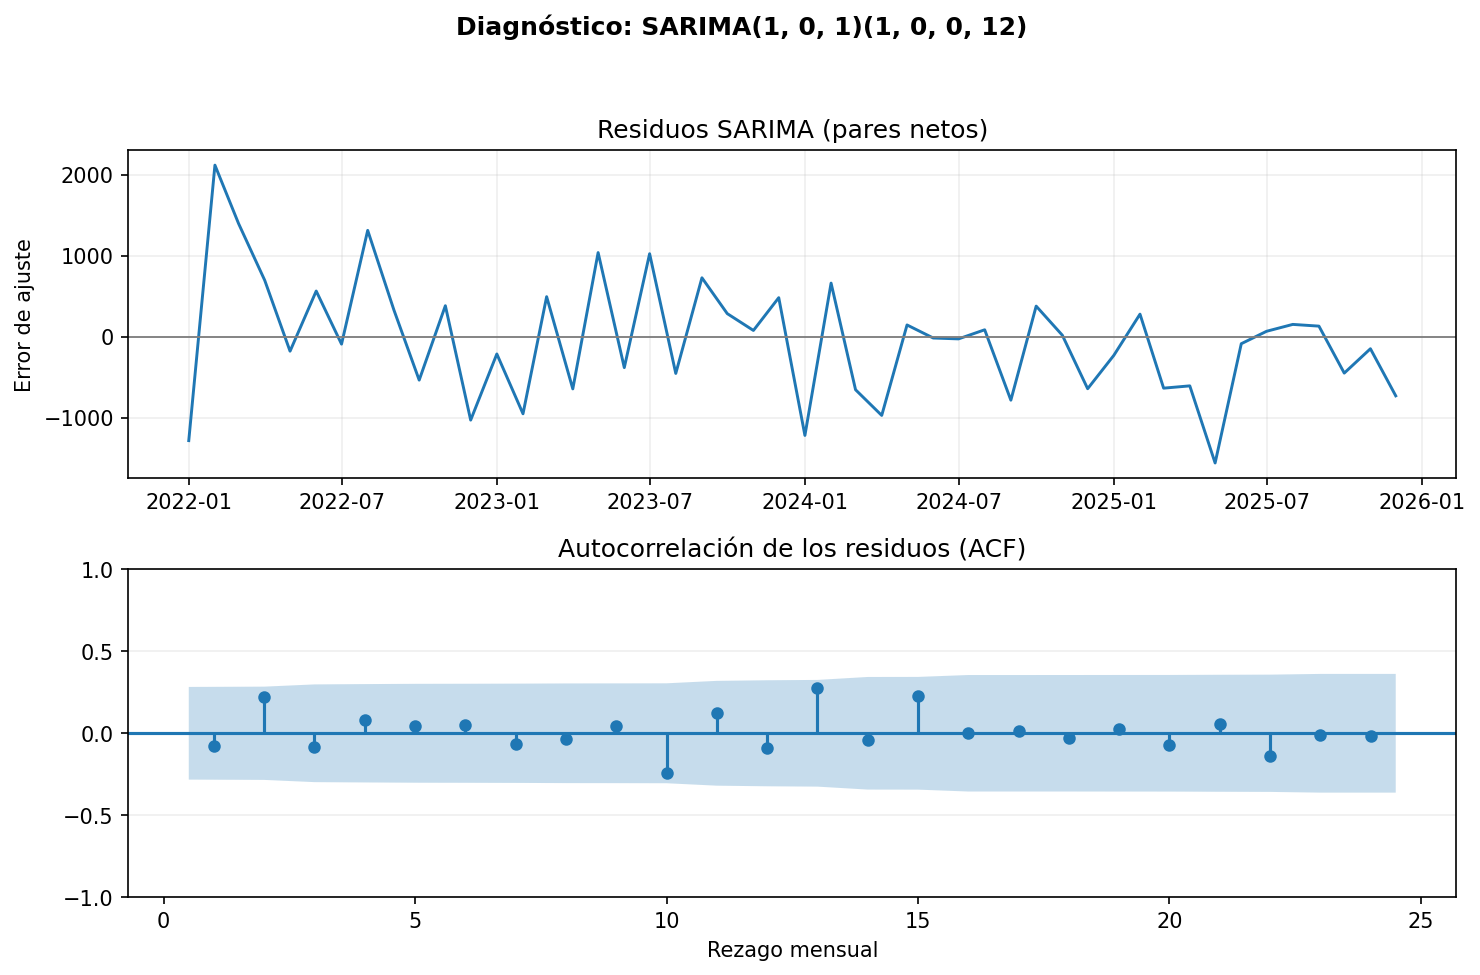
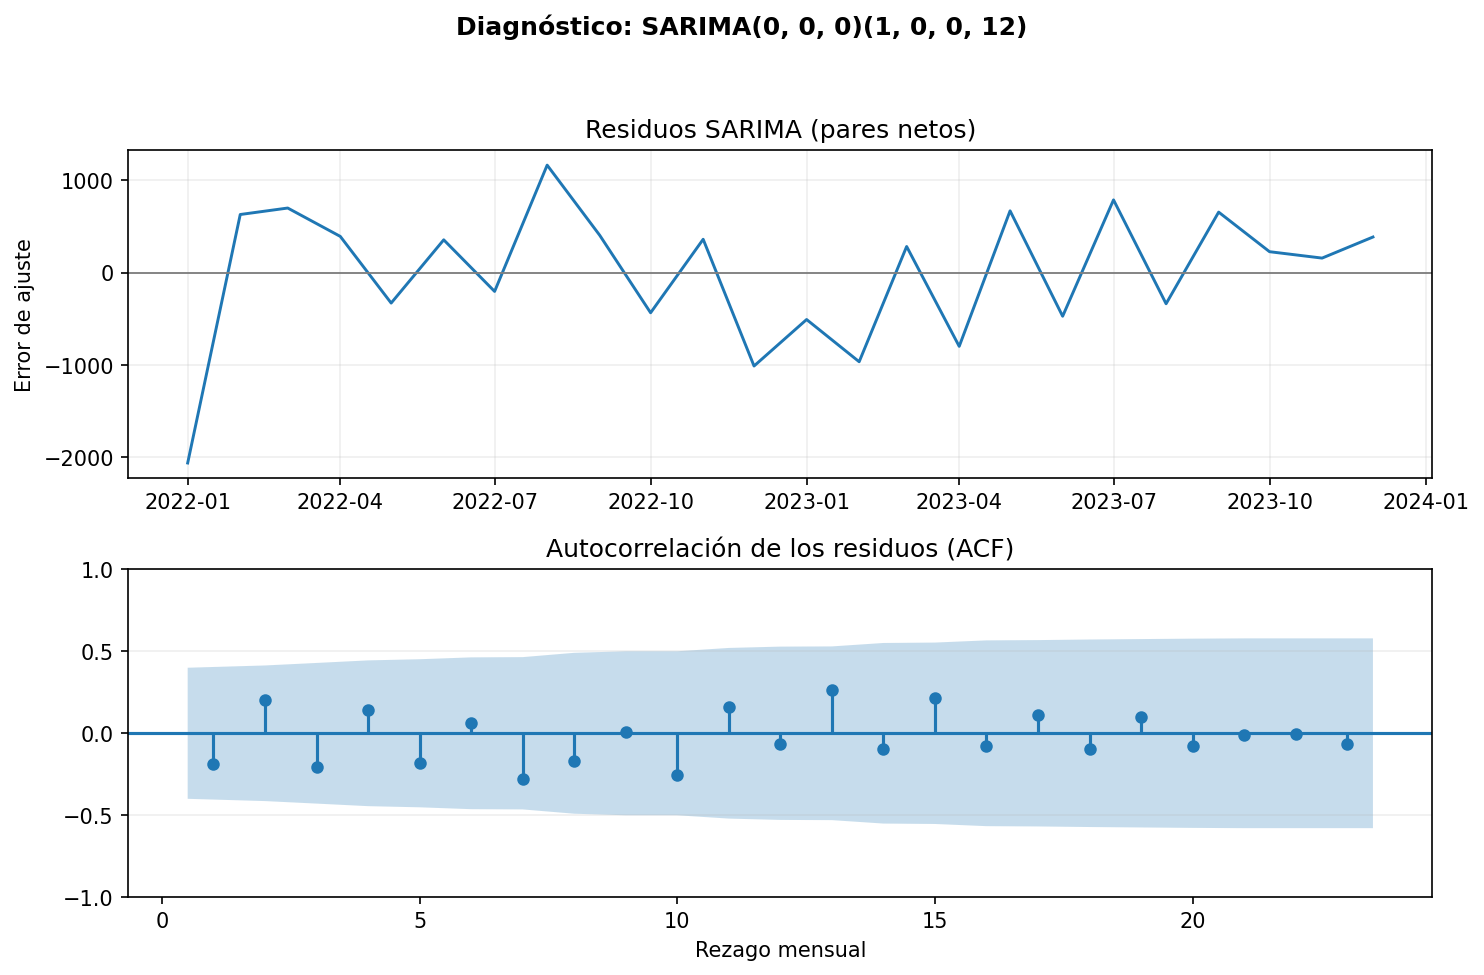
Corregir seleccion SARIMA, diagnostico y backtesting

diff --git a/miniproyecto.py b/miniproyecto.py
@@ -437,9 +437,11 @@ def _ajustar_arima(entrenamiento, orden, orden_estacional, exog=None):
 def elegir_sarima(serie, d, D):
     """Rejilla (p,q,P,Q) en {0,1}, AIC y Ljung-Box del mejor convergido.
 
-    Se seleccionan órdenes con TODA la serie a título exploratorio. El
-    backtest reestima parámetros en cada origen, pero mantiene estos órdenes:
-    esta elección previa sí ve fechas posteriores y se advierte en el informe.
+    Selección de órdenes usando los 24 primeros meses, disponibles en el
+    primer origen de backtesting. El mismo orden se mantiene en todos los
+    orígenes; los parámetros se reestiman solo con cada entrenamiento.
+    Advertencia: la selección con 24 meses es inestable para modelos de
+    estacionalidad anual, por lo que se interpreta como exploratoria.
     """
     from itertools import product
     from statsmodels.graphics.tsaplots import plot_acf
@@ -468,7 +470,7 @@ def elegir_sarima(serie, d, D):
         orden = (p, d, q)
         estacional = (P, D, Q, PERIODO)
         try:
-            ajuste = _ajustar_arima(serie, orden, estacional)
+            ajuste = _ajustar_arima(serie_seleccion, orden, estacional)
             convergio = bool(ajuste.mle_retvals.get("converged", False))
             aic = float(ajuste.aic)
             filas.append({
@@ -502,9 +504,15 @@ def elegir_sarima(serie, d, D):
     # Ajustamos grados de libertad por términos AR/MA estimados.
     # No descontamos la constante del modelo.
     grados = orden[0] + orden[2] + estacional[0] + estacional[2]
-    residuos = pd.Series(ajuste.resid * ESCALA, index=serie.index, name="residuo_pares")
+    # Conservar el índice temporal del mismo ajuste (24 meses); reindexar
+    # a los 48 meses crea NaN y anula las pruebas de Ljung-Box y ACF.
+    residuos = pd.Series(ajuste.resid * ESCALA, name="residuo_pares")
+    if len(residuos) < PERIODO + 1 or not np.isfinite(residuos).all():
+        raise ValueError("Residuos SARIMA insuficientes o no finitos.")
+    # En 24 observaciones no se puede usar lag 24. Diagnóstico indicativo.
+    lags_lb = [PERIODO // 2, PERIODO]
     lb = acorr_ljungbox(
-        residuos, lags=[PERIODO, 2 * PERIODO],
+        residuos, lags=lags_lb,
         model_df=grados, return_df=True,
     )
     lb.index.name = "rezago"
@@ -645,9 +653,10 @@ def main():
     serie = preparar(cruda)
     graficar_serie(serie)
 
-    filas = [fila("ingenuo", serie, ingenuo),
+    detalles = []
+    filas = [fila("ingenuo", serie, ingenuo, detalles),
              fila("estacional ingenuo", serie,
-                  lambda t, h: estacional_ingenuo(t, h, PERIODO))]
+                  lambda t, h: estacional_ingenuo(t, h, PERIODO), detalles)]
 
     try:
         descomponer(serie)
@@ -685,9 +694,10 @@ def main():
         except NotImplementedError as error:
             pendiente("parte 4", error)
 
-    pd.concat(detalles, ignore_index=True).to_csv(
-        RESULTADOS / "backtest_por_origen.csv", index=False
-    )
+    if detalles:
+        pd.concat(detalles, ignore_index=True).to_csv(
+            RESULTADOS / "backtest_por_origen.csv", index=False
+        )
 
     tabla = pd.DataFrame(filas).sort_values("RMSE")
     tabla.to_csv(RESULTADOS / "metricas.csv", index=False)

diff --git a/docs/informe.md b/docs/informe.md
@@ -38,9 +38,13 @@ Para cuantificar la importancia de la tendencia y la estacionalidad se calcularo
 
 Se utilizaron las siguientes expresiones:
 
-$$F_T = \max\left(0, 1 - \frac{\operatorname{Var}(R_t)}{\operatorname{Var}(T_t + R_t)}\right)$$
+```math
+F_T = \max\left(0, 1 - \frac{\mathrm{Var}(R_t)}{\mathrm{Var}(T_t + R_t)}\right)
+```
 
-$$F_S = \max\left(0, 1 - \frac{\operatorname{Var}(R_t)}{\operatorname{Var}(S_t + R_t)}\right)$$
+```math
+F_S = \max\left(0, 1 - \frac{\mathrm{Var}(R_t)}{\mathrm{Var}(S_t + R_t)}\right)
+```
 
 Los resultados obtenidos fueron:
 
@@ -120,157 +124,168 @@ Para la **serie sin diferencias (`d = 0`, `D = 0`)**, la banda exploratoria apro
 
 ## 5. Modelos clásicos
 
-Se evaluó una rejilla pequeña de **16 SARIMA**, con $p,q,P,Q\in\{0,1\}$,
-$d=0$, $D=0$ y periodo estacional $m=12$ fijados con el análisis de la
-sección anterior. Se ajustó sobre las ventas divididas por una **escala de 10**
-para mejorar la estabilidad numérica; los pronósticos se regresan a **pares
-netos originales** antes de calcular las métricas. Se utilizó constante
-porque la serie no se diferenció. Se descartaría cualquier ajuste que no
-convergiera; los 16 ajustes de esta ejecución convergieron.
+### Selección de órdenes sin anticipar meses del backtest
 
-El criterio AIC penaliza la complejidad del modelo, pero **no mide por sí mismo
-el desempeño predictivo fuera de muestra**. La rejilla y sus valores numéricos,
-generados por código, están disponibles en `resultados/rejilla_aic.csv`.
+Para evaluar los candidatos SARIMA, se utilizó exclusivamente la **ventana de
+24 meses entre enero de 2022 y diciembre de 2023**, que es el entrenamiento
+disponible en el primer origen del `backtest` de `comun.py`. La selección se
+realizó **una sola vez** con una rejilla de 16 especificaciones:
+$p,q,P,Q\in\{0,1\}$, $d=0$, $D=0$ y periodo estacional 12. Se utilizó
+una constante al no diferenciar la serie, con escalado numérico de 10; el
+error se calcula siempre en **pares originales**.
 
-| Orden regular | Orden estacional | AIC | Convergió |
+Se preespecificó $d=D=0$ mediante la exploración inicial de la serie completa,
+y se comprobó que la prueba ADF con constante en la ventana de 24 meses
+rechazaba raíz unitaria ($p\approx 1.51\times 10^{-5}$). Esta decisión es
+exploratoria y **no constituye una validación anidada completamente libre de
+selección retrospectiva**. Una selección estrictamente anidada requeriría
+determinar órdenes y diferencias de nuevo en cada origen usando solo los datos
+históricos respectivos. Con apenas dos ciclos en el primer entrenamiento,
+la identificación de estacionalidad anual es especialmente incierta.
+
+El criterio de selección fue el **AIC mínimo entre ajustes convergidos**, sin
+utilizar las ventas de 2024 ni 2025 para elegir órdenes. El AIC refleja ajuste
+penalizado por complejidad; no garantiza menor error de pronóstico. Los
+resultados calculados por la versión corregida del programa fueron:
+
+| Orden regular | Orden estacional | AIC (24 meses) | Convergió |
 |---|---|---:|---|
-| `(1, 0, 1)` | `(1, 0, 0, 12)` | 552.77 | Sí |
-| `(1, 0, 1)` | `(1, 0, 1, 12)` | 554.76 | Sí |
-| `(1, 0, 1)` | `(0, 0, 1, 12)` | 554.93 | Sí |
-| `(1, 0, 0)` | `(0, 0, 1, 12)` | 558.46 | Sí |
-| `(1, 0, 0)` | `(1, 0, 0, 12)` | 558.83 | Sí |
-| `(0, 0, 0)` | `(0, 0, 1, 12)` | 559.33 | Sí |
-| `(0, 0, 1)` | `(0, 0, 1, 12)` | 559.67 | Sí |
-| `(1, 0, 0)` | `(1, 0, 1, 12)` | 559.96 | Sí |
-| `(0, 0, 0)` | `(1, 0, 1, 12)` | 560.32 | Sí |
-| `(0, 0, 1)` | `(1, 0, 0, 12)` | 560.91 | Sí |
-| `(0, 0, 1)` | `(1, 0, 1, 12)` | 561.09 | Sí |
-| `(0, 0, 0)` | `(1, 0, 0, 12)` | 561.45 | Sí |
-| `(1, 0, 1)` | `(0, 0, 0, 12)` | 567.06 | Sí |
-| `(1, 0, 0)` | `(0, 0, 0, 12)` | 567.57 | Sí |
-| `(0, 0, 1)` | `(0, 0, 0, 12)` | 568.87 | Sí |
-| `(0, 0, 0)` | `(0, 0, 0, 12)` | 571.01 | Sí |
+| `(0, 0, 0)` | `(1, 0, 0, 12)` | 278.20 | Sí |
+| `(0, 0, 0)` | `(0, 0, 1, 12)` | 278.20 | Sí |
+| `(1, 0, 1)` | `(1, 0, 0, 12)` | 279.57 | Sí |
+| `(1, 0, 0)` | `(1, 0, 0, 12)` | 279.57 | Sí |
+| `(0, 0, 0)` | `(0, 0, 0, 12)` | 279.73 | Sí |
+| `(0, 0, 1)` | `(1, 0, 0, 12)` | 279.82 | Sí |
+| `(1, 0, 0)` | `(0, 0, 1, 12)` | 279.86 | Sí |
+| `(0, 0, 1)` | `(0, 0, 1, 12)` | 279.96 | Sí |
+| `(1, 0, 1)` | `(0, 0, 1, 12)` | 280.13 | Sí |
+| `(0, 0, 0)` | `(1, 0, 1, 12)` | 280.20 | Sí |
+| `(1, 0, 0)` | `(1, 0, 1, 12)` | 281.37 | Sí |
+| `(1, 0, 1)` | `(1, 0, 1, 12)` | 281.41 | Sí |
+| `(0, 0, 1)` | `(1, 0, 1, 12)` | 281.71 | Sí |
+| `(1, 0, 0)` | `(0, 0, 0, 12)` | 281.73 | Sí |
+| `(0, 0, 1)` | `(0, 0, 0, 12)` | 281.73 | Sí |
+| `(1, 0, 1)` | `(0, 0, 0, 12)` | 281.86 | Sí |
 
-El mínimo entre modelos convergidos corresponde a **SARIMA(1,0,1)(1,0,0,12)**,
-con **AIC = 552.7675**. En el componente regular, $p=1$ utiliza dependencia
-a un mes, $d=0$ no aplica diferencias y $q=1$ incorpora un choque pasado.
-En el estacional, $P=1$ introduce relación a 12 meses, $D=0$ evita diferenciar
-por año y $Q=0$ no incorpora término MA estacional. Una forma de representar
-su estructura es:
+El mínimo corresponde a **SARIMA(0,0,0)(1,0,0,12)**, con **AIC = 278.2031**.
+La alternativa SARIMA(0,0,0)(0,0,1,12) arroja **AIC = 278.2039**, una
+**diferencia prácticamente nula**. Por tanto, la elección no debe
+interpretarse como evidencia contundente de superioridad estructural.
 
-$$
-(1-\phi_1 B)(1-\Phi_1 B^{12})(y_t-\mu)
-= (1+\theta_1 B)\varepsilon_t,
-$$
+El modelo seleccionado tiene una componente autorregresiva estacional de
+periodo 12, sin términos AR o MA regulares. Su forma conceptual es:
 
-con $B$ como operador de rezago mensual y $\varepsilon_t$ como innovación.
-La ecuación resume la estructura SARIMA; los coeficientes se estiman en el
-ajuste y se vuelven a estimar por origen durante el backtest.
+```math
+(1-\Phi_1 B^{12})(y_t-\mu)=\varepsilon_t
+```
+
+La rejilla íntegra se encuentra en `resultados/rejilla_aic.csv`. Los órdenes
+seleccionados se mantienen durante el backtesting, pero **los parámetros se
+reestiman en cada origen** exclusivamente con su entrenamiento.
 
 ### Diagnóstico de residuos
 
-![Diagnóstico de residuos SARIMA](../figuras/residuos.png)
+![Residuos del SARIMA elegido con ventana inicial de 24 meses](../figuras/residuos.png)
 
-La **prueba Ljung-Box** contrasta $H_0$: ausencia de autocorrelación conjunta
-hasta el rezago evaluado. Se descontaron **3 grados de libertad AR/MA**
-($p+q+P+Q=3$). Se obtuvo:
+La prueba Ljung-Box contrasta la hipótesis nula de **ausencia de autocorrelación
+hasta el rezago evaluado**. El diagnóstico se calculó con los residuos del
+**mismo ajuste inicial de 24 meses** y su índice temporal correcto, descontando
+1 grado de libertad por el coeficiente estacional AR. En vez de probar el
+rezago 24 con apenas 24 observaciones, se utilizaron los rezagos **6 y 12**:
 
-| Rezago | Estadístico Ljung-Box | Valor p | Interpretación al 5 % |
-|---|---:|---:|---|
-| 12 | 9.5288 | 0.389955 | No se rechaza $H_0$ |
-| 24 | 21.2600 | 0.443168 | No se rechaza $H_0$ |
+| Rezago | Estadístico Q | Valor p | Interpretación (5 %) |
+|---:|---:|---:|---|
+| 6 | 5.2027 | 0.391651 | No se rechaza H₀ |
+| 12 | 13.6058 | 0.255576 | No se rechaza H₀ |
 
-La ACF de residuos no presenta señales suficientes para rechazar la ausencia
-de autocorrelación global mediante esas pruebas. Esto **no demuestra** que
-los errores sean independientes, normales ni que el modelo sea el mejor
-pronosticando. Con 48 observaciones, la potencia de diagnóstico es limitada.
+Estos resultados no aportan evidencia suficiente para rechazar ausencia de
+autocorrelación bajo dichas pruebas, pero **no demuestran independencia de
+los residuos**. La muestra de 24 meses y el número de parámetros limitan
+la potencia estadística. El archivo `resultados/ljung_box.csv` conserva los
+valores generados.
 
-### SARIMAX: festivos como variable exógena
+### SARIMAX con festivos de Colombia
 
-Se agregó el **número de festivos legales de Colombia por mes**. El calendario
-se calcula mediante las reglas de la Ley 51 de 1983: fechas fijas,
-festividades trasladadas al lunes y fechas móviles asociadas a Pascua
-([texto legal — Función Pública](https://www.funcionpublica.gov.co/eva/gestornormativo/norma.php/norma.php?i=4954)).
-El índice incluye **2022-01 a 2026-12**, incorporando 12 meses futuros
-para poder emitir pronósticos. En **2025 aparecen 17 fechas distintas**,
-pues pueden coincidir dos festividades en una sola fecha de descanso.
+Como exógena se utilizó el **número mensual de festivos de Colombia**, calculado
+según las reglas de la Ley 51 de 1983 y el calendario de Pascua. El calendario
+se conoce antes de cada pronóstico, sin incorporar ventas futuras. Se incluyeron
+fechas de enero de 2022 a diciembre de 2026 para garantizar la cobertura de
+los 12 meses posteriores a la serie.
 
-La estructura del modelo SARIMAX es:
+La representación del modelo es:
 
-$$
-y_t = \beta_0 + \beta_1 x_t + u_t,
-\qquad u_t \sim SARIMA(1,0,1)(1,0,0)_{12},
-$$
+```math
+y_t = \beta_0 + \beta_1 x_t + u_t, \qquad
+u_t \sim SARIMA(0,0,0)(1,0,0)_{12}
+```
 
-donde $x_t$ es el número de fechas festivas en el mes. El ajuste completo
-produjo un efecto estimado de **-22.41 pares por festivo** y
-**p = 0.868564**. Al superar 0,05, no se obtuvo evidencia
-estadística suficiente de un efecto distinto de cero, manteniendo las demás
-condiciones del modelo. Su coeficiente no implica causalidad. Los valores
-quedaron registrados en `resultados/efecto_festivos.csv`.
+El ajuste descriptivo sobre los 48 meses estimó
+**-14.57 pares por festivo**
+($p=0.931424$). Con un valor $p$ mayor que 0,05 no se
+encontró evidencia suficiente de asociación estadísticamente significativa;
+este coeficiente **no demuestra causalidad**. Se registra en
+`resultados/efecto_festivos.csv`.
 
-En el **backtest** se utilizan para ajustar solamente los festivos de los
-meses observados y, para pronosticar, los festivos conocidos de cada mes
-futuro. No se utilizan ventas posteriores al origen en los ajustes.
+### Comparación mediante backtesting
 
-**Limitación de selección:** el modelo y los órdenes SARIMA fueron escogidos
-por AIC sobre los 48 meses **antes** del backtest. Por ello, aunque cada
-ajuste de parámetros se hace solo con datos de entrenamiento, la elección
-global de órdenes sí utiliza información de fechas posteriores a algunos
-orígenes. Los resultados no deben presentarse como una selección anidada
-completamente libre de fuga de información. Un backtest anidado exigiría
-repetir la selección de órdenes dentro de cada entrenamiento, opción que no
-se implementa en esta versión.
+Se conserva **sin modificaciones `comun.py`**. Se evaluaron **13 orígenes
+móviles**, cada uno con pronósticos de **12 meses**. En cada origen los
+parámetros SARIMA/SARIMAX se ajustan con las ventas disponibles hasta ese
+punto; el calendario futuro se utiliza solo como exógena conocida. Edison
+incorporó el registro detallado de las métricas por origen en
+`resultados/backtest_por_origen.csv`, incluyendo ambos métodos ingenuos y
+los dos modelos paramétricos.
 
 ## 6. Tabla de métricas
 
-La tabla de abajo procede de `resultados/metricas.csv`, creada con el **mismo
-`backtest` de `comun.py` sin alterar**. Compara 13 orígenes móviles, cada uno
-con pronósticos a 12 meses, y presenta el promedio de métricas por origen,
-ordenado por RMSE ascendente. No se limitaron los pronósticos a cero, pues
-se prefirió conservar la salida matemática del modelo y comparar en las
-mismas condiciones.
+Resultados de `resultados/metricas.csv`, ordenados por **RMSE promedio de los
+13 orígenes**. RMSE y MAE se expresan en pares netos; MAPE es porcentaje.
 
-| Modelo | Decisión de preparación | RMSE (pares) | MAE (pares) | MAPE (%) |
-|---|---|---:|---:|---:|
-| estacional ingenuo | 48 meses consecutivos sin faltantes; se conservan todos los valores mensuales sin imputar ni recortar; revisión comercial pendiente de meses bajos 2025 | 842.94 | 680.98 | 90.89 |
-| SARIMA(1,0,1)(1,0,0,12) | 48 meses consecutivos sin faltantes; se conservan todos los valores mensuales sin imputar ni recortar; revisión comercial pendiente de meses bajos 2025 | 857.44 | 718.55 | 109.04 |
-| SARIMAX(1,0,1)(1,0,0,12) + exógenas | 48 meses consecutivos sin faltantes; se conservan todos los valores mensuales sin imputar ni recortar; revisión comercial pendiente de meses bajos 2025 | 866.53 | 704.25 | 109.22 |
-| ingenuo | 48 meses consecutivos sin faltantes; se conservan todos los valores mensuales sin imputar ni recortar; revisión comercial pendiente de meses bajos 2025 | 1081.80 | 887.45 | 138.60 |
+| Modelo | RMSE | MAE | MAPE (%) |
+|---|---:|---:|---:|
+| estacional ingenuo | 842.94 | 680.98 | 90.89 |
+| SARIMA(0, 0, 0)(1, 0, 0, 12) | 851.25 | 704.41 | 114.01 |
+| SARIMAX(0, 0, 0)(1, 0, 0, 12) + exógenas | 885.71 | 709.88 | 114.55 |
+| ingenuo | 1081.80 | 887.45 | 138.60 |
 
-**Resultado:** la línea base **estacional ingenua** mantiene el menor RMSE,
-MAE y MAPE de esta comparación. El **SARIMA** es el mejor de los dos modelos
-clásicos parametrizados, pero su RMSE fue **1.72 % mayor**
-que el estacional ingenuo; el **SARIMAX** fue **2.80 % mayor**.
-Los MAPE elevados deben leerse con cautela debido a los meses de ventas
-muy reducidas: un error moderado en pares puede representar un porcentaje
-muy grande cuando la base mensual es pequeña.
+**Decisión de preparación (columna `decision` del CSV):** 48 meses consecutivos,
+sin faltantes; no se imputaron ni recortaron valores. Los meses de ventas
+muy bajas de 2025 requieren interpretación comercial. El MAPE es sensible
+a estas observaciones de magnitud pequeña.
 
-## 7. Conclusión
+La línea base **estacional ingenua** obtuvo el menor RMSE
+(**842.94 pares**). El SARIMA seleccionado presentó
+**851.25 pares** y el SARIMAX con festivos
+**885.71 pares**. En esta evaluación, la mayor complejidad no
+mejoró el RMSE frente a la referencia estacional.
 
-El ejercicio no justificó sustituir la **línea base estacional ingenua**
-por un modelo más complejo. El mejor SARIMA por AIC,
-**SARIMA(1,0,1)(1,0,0,12)**, logró un comportamiento residual compatible
-con ausencia de autocorrelación relevante a 12 y 24 rezagos, pero en el
-backtest presentó **RMSE de 857.44 pares**, frente a **842.94 pares**
-del estacional ingenuo. El SARIMAX con número de festivos tampoco mejoró
-el RMSE (**866.53 pares**) y su efecto exógeno no fue significativo.
+## 7. Conclusiones y limitaciones
 
-![Pronóstico ingenuo estacional frente a la realidad 2025](../figuras/validacion_2025.png)
+La selección de órdenes con los primeros 24 meses evita utilizar las ventas de
+los meses posteriores en la **rejilla AIC**. Sin embargo, la decisión preliminar
+sobre $d$ y $D$ y parte de la exploración de estacionariedad se documentaron
+con los 48 meses; no debe afirmarse que el proceso completo constituye una
+selección anidada. El desempeño se estima mediante el backtest común y la
+selección AIC tiene incertidumbre apreciable con tan pocos ciclos.
 
-La caída de ventas durante **2025** es un reto visible: la línea base
-estacional pronostica **22.902 pares** para ese año utilizando los valores
-de 2024, mientras los datos observados suman **12.998 pares**, una
-sobreestimación de **9.904 pares**. Esto ilustra que repetir el patrón del
-año anterior puede fallar cuando cambia el nivel del negocio. La gráfica
-se muestra para interpretar los errores, no para introducir un nuevo
-criterio de selección.
+El mejor modelo por RMSE es **estacional ingenuo (842.94 pares)**,
+y no el SARIMA parametrizado. La exógena de festivos tampoco mejoró el error.
+El diagnóstico Ljung-Box no halló evidencia suficiente de autocorrelación
+para el modelo elegido en la ventana inicial, con las limitaciones señaladas.
 
-**Conclusión para el Miniproyecto 2:** la referencia a superar, según el
-criterio de RMSE adoptado, es el estacional ingenuo (**842.94 pares**).
-Se sugiere investigar la caída de 2025, validar la estabilidad de la
-estacionalidad y evaluar nuevos métodos con especial cuidado al seleccionar
-hiperparámetros dentro de cada origen. Los 48 meses disponibles continúan siendo una excepción pendiente
-de respuesta académica; aunque la empresa autorizó divulgar los
-agregados mensuales, todavía no se dispone de una licencia pública
-de reutilización expresamente definida.
+![Pronóstico estacional ingenuo frente a ventas de 2025](../figuras/validacion_2025.png)
+
+Para 2025, la referencia estacional pronosticó **22.902 pares** utilizando
+los valores de 2024, mientras que se observaron **12.998 pares**. Esta
+sobreestimación muestra los límites de repetir el patrón anual cuando el
+nivel de ventas cambia.
+
+**Limitaciones académicas:** la serie privada agregada tiene **48 meses**, en
+lugar de los 60 solicitados por el enunciado. La empresa autorizó su
+publicación agregada, pero no se ha documentado una licencia abierta de
+reutilización por terceros. Se solicitó al profesor una excepción y se
+mantiene explícita esta restricción, sin inventar observaciones adicionales.
+
+**Proyección:** evaluar más historia, revisar los cambios comerciales de 2025,
+considerar validación anidada de órdenes y comparar modelos adicionales en el
+siguiente miniproyecto.
